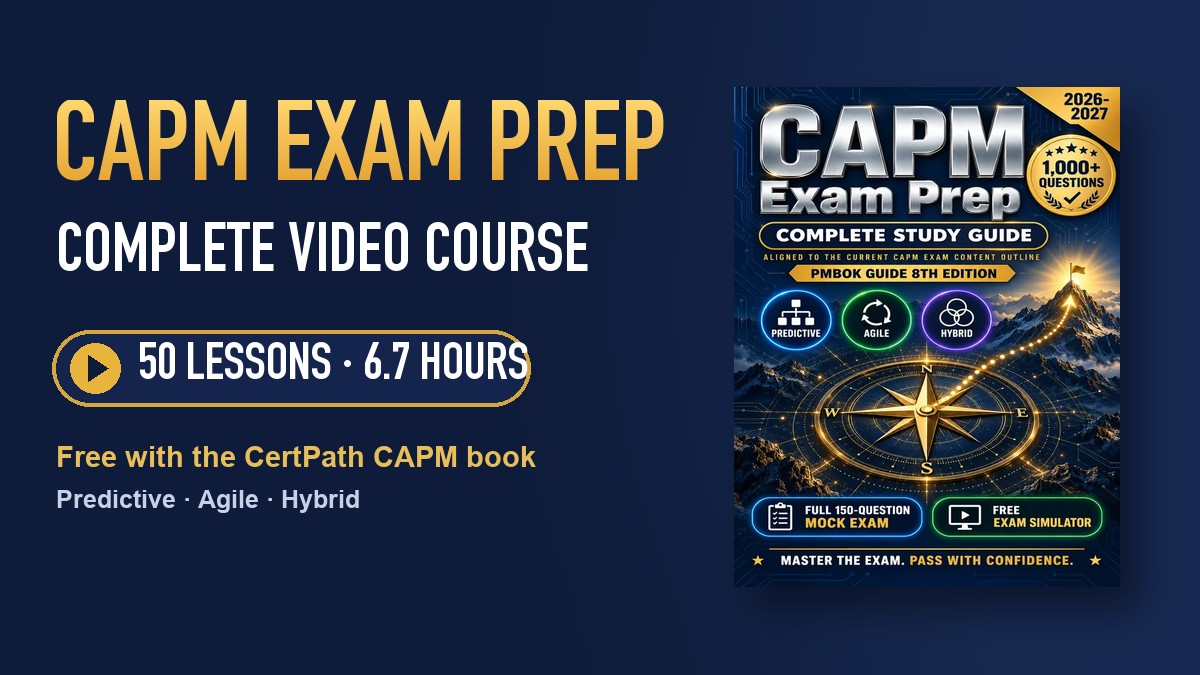
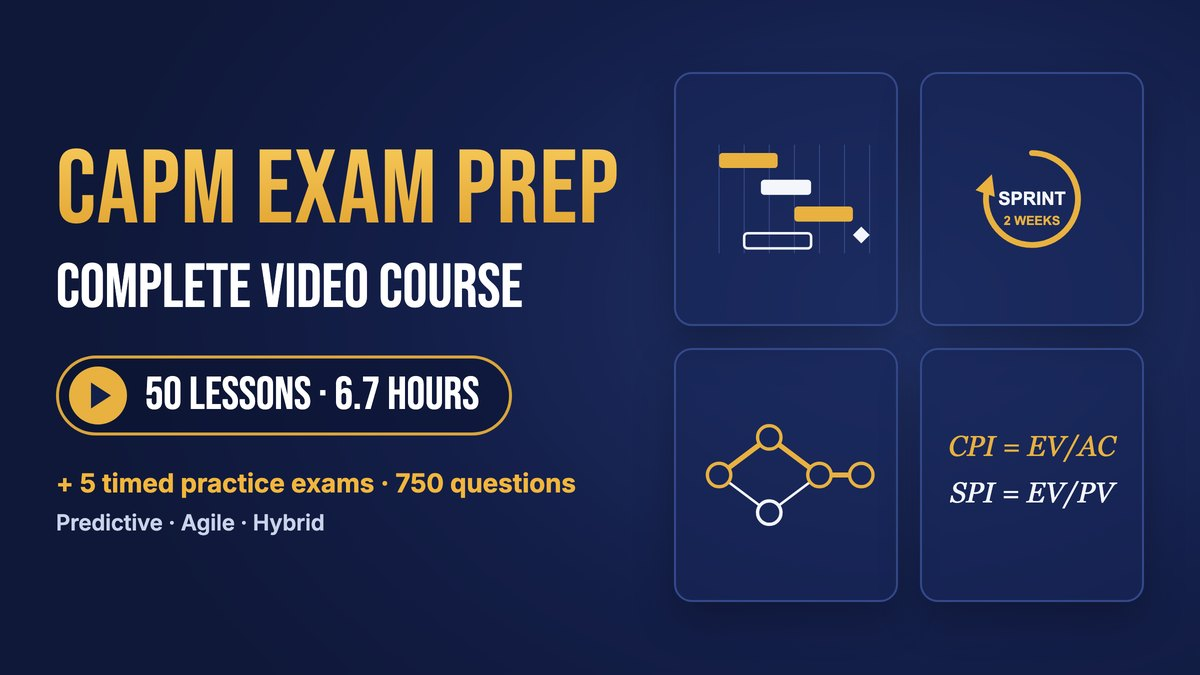
CAPM + Mechanical Aptitude Complete Prep packs ($19.99): course, pack codes, buy sections

diff --git a/capm.html b/capm.html
@@ -341,6 +341,33 @@ footer.ft{background:var(--navy-2);color:rgba(255,255,255,.72);padding:64px 0 40
   </div>
 </section>
 
+<!-- VIDEO COURSE PACK -->
+<link rel="stylesheet" href="/css/video-course.css?v=4">
+<section class="vc" id="video-course">
+ <div class="vc-in">
+  <div class="vc-head"><h2>The CAPM video course + practice exams — <em>$19.99</em>.</h2><p>All four CAPM domains taught step by step — predictive, agile and business analysis — plus 5 timed online practice exams to prove you are ready.</p></div>
+  <div class="vc-card" id="vc-capm" role="tabpanel">
+  <div>
+    <a class="vc-cover" href="https://payhip.com/b/M89UW" target="_blank" rel="noopener"><img src="/img/video-courses/CAPM.jpg" alt="CAPM Exam Prep — Complete Video Course" loading="lazy"><span class="pl">▶ 50 lessons + 5 practice exams</span></a>
+    <div class="vc-stats"><div><b>50</b><span>lessons</span></div><div><b>6.7 h</b><span>of video</span></div><div><b>5</b><span>practice exams</span></div></div>
+  </div>
+  <div>
+    <h3 class="vc-title">CAPM Exam Prep — Video Course + Practice Exams</h3>
+    <p class="vc-sub">Every domain of the current CAPM exam content outline, in plain English, with exam-style examples throughout.</p>
+    <ul class="vc-list"><li>5 timed online practice exams (750 questions), every answer explained</li><li>50 lessons covering fundamentals, predictive, agile and business analysis</li><li>One pack code unlocks the videos and the tests — no account needed</li></ul>
+    <div class="vc-buy">
+      <div class="vc-price"><b>$19.99</b><span>One-time payment</span></div>
+      <div class="vc-note">No subscription. Instant download with your pack code — stream on phone, tablet or computer.</div>
+      <a class="vc-btn" href="https://payhip.com/b/M89UW" target="_blank" rel="noopener">Get the pack — $19.99</a>
+      <div class="vc-alt"><a href="/learn/capm">Watch lesson 1 free →</a><span>Own the book? <a href="/study/capm">It's free with your code</a></span></div>
+      <div class="vc-trust"><span>🔒 Secure checkout by Payhip</span><span>💳 Card &amp; PayPal</span><span>🎓 CertPath Publishing</span></div>
+    </div>
+  </div>
+</div>
+<details class="vc-cur" data-for="vc-capm"><summary>See all 50 lessons</summary><ol><li><b>01</b>CAPM Certification, Eligibility and Education Requirements</li><li><b>02</b>Exam Structure, Question Formats and Blueprint</li><li><b>03</b>How to Study and Use This Course</li><li><b>04</b>Projects, Programs, Portfolios &amp; Operations</li><li><b>05</b>Life Cycles &amp; Development Approaches</li><li><b>06</b>Issues, Risks, Assumptions &amp; Constraints</li><li><b>07</b>Project Scope Fundamentals</li><li><b>08</b>PMI Code of Ethics &amp; Professional Conduct</li><li><b>09</b>Projects as Vehicles for Change</li><li><b>10</b>Planning — Cost, Quality, Risk, Schedule, Resources &amp; Communications</li><li><b>11</b>Project Management Plan vs. Product Management Plan</li><li><b>12</b>Milestones vs. Task Durations &amp; Activities</li><li><b>13</b>Resources - Number &amp; Type</li><li><b>14</b>The Risk Register &amp; the Stakeholder Register</li><li><b>15</b>Project Closure &amp; Transitions</li><li><b>16</b>Roles &amp; Responsibilities - PM, Sponsor &amp; Team</li><li><b>17</b>Leadership vs. Management; Emotional Intelligence</li><li><b>18</b>Following and Executing Planned Strategies</li><li><b>19</b>Project Initiation and Benefits Planning</li><li><b>20</b>Problem-Solving, Meetings, and SWOT</li><li><b>21</b>When Predictive Fits; Organizational Structures</li><li><b>22</b>Process Groups, Typical Activities, and Predictive Components</li><li><b>23</b>Scope — The WBS and Work Packages</li><li><b>24</b>Scheduling &amp; the Critical Path Method</li><li><b>25</b>Schedule Variance &amp; Cost Variance (EVM Basics)</li><li><b>26</b>Quality Management Plan</li><li><b>27</b>Integration Management &amp; Change Control</li><li><b>28</b>Documenting Predictive Controls &amp; Artifacts</li><li><b>29</b>When Adaptive Fits and the Agile Mindset</li><li><b>30</b>Iterative vs Incremental and Planning Iterations</li><li><b>31</b>From WBS to Backlog and Inputs for Scope</li><li><b>32</b>Adaptive vs Predictive Tracking</li><li><b>33</b>Adaptive Artifacts</li><li><b>34</b>Adaptive Framework Deep-Dive — Scrum</li><li><b>35</b>Kanban, XP &amp; SAFe (Awareness)</li><li><b>36</b>Task Management — Success Criteria &amp; Prioritization</li><li><b>37</b>What Business Analysis Is; Value Across the Life Cycle</li><li><b>38</b>Business Analysis Roles and Stakeholders</li><li><b>39</b>Stakeholder Communication - Channels, Reporting, and Presentations</li><li><b>40</b>Elicitation Techniques</li><li><b>41</b>Requirement Types, Documentation &amp; Acceptance Criteria</li><li><b>42</b>Modeling Requirements — User Stories &amp; Use Cases</li><li><b>43</b>Requirements Traceability Matrix &amp; Product Backlog</li><li><b>44</b>Prioritization — MoSCoW &amp; Other Methods</li><li><b>45</b>Product Roadmaps &amp; Releases</li><li><b>46</b>BA in Predictive vs Adaptive Environments</li><li><b>47</b>Validating Requirements &amp; Delivery Readiness</li><li><b>48</b>Worked Calculations- Critical Path and Earned Value</li><li><b>49</b>Final Revision Across the Four CAPM Domains</li><li><b>50</b>Practice Exam Debrief and Remediation</li></ol></details>
+ </div>
+</section>
+
 <!-- ELIGIBILITY -->
 <section class="section" id="requirements">
   <div class="wrap">
@@ -375,7 +402,7 @@ footer.ft{background:var(--navy-2);color:rgba(255,255,255,.72);padding:64px 0 40
     <span class="eyebrow">Questions</span>
     <h2 class="h2">CAPM exam FAQ</h2>
     <div class="faq" style="text-align:left">
-      <details open><summary>Is the free CAPM practice exam really free? <span class="pm">+</span></summary><p>Yes. Enter your email and you'll unlock a full-length, 150-question practice exam — timed, auto-scored, with explanations. No card, no trial. The other four exams come with the CertPath CAPM Exam Prep book.</p></details>
+      <details open><summary>Is the free CAPM practice exam really free? <span class="pm">+</span></summary><p>Yes. Enter your email and you'll unlock a full-length, 150-question practice exam — timed, auto-scored, with explanations. No card, no trial. The other four exams come with the CertPath CAPM Exam Prep book or the $19.99 CAPM Complete Prep pack (videos + all 5 exams).</p></details>
       <details><summary>How many questions is the real CAPM exam? <span class="pm">+</span></summary><p>150 questions in about 3 hours (180 minutes). CAPM is a knowledge-based exam — no eligibility hours of project experience required, just 23 hours of project management education.</p></details>
       <details><summary>Is this aligned to the current (2023) exam? <span class="pm">+</span></summary><p>Yes — everything maps 1:1 to the current CAPM Examination Content Outline: Project Management Fundamentals &amp; Core Concepts 36%, Predictive Plan-Based Methodologies 17%, Agile Frameworks 20%, and Business Analysis Frameworks 27%.</p></details>
       <details><summary>I bought the CertPath CAPM book — how do I get my tests? <span class="pm">+</span></summary><p>Use the access code printed on the last page in the "Already purchased?" box above — it unlocks all five practice exams free.</p></details>

diff --git a/mechanical-aptitude.html b/mechanical-aptitude.html
@@ -82,6 +82,7 @@
     </div>
   </section>
 
+
   <section class="lp-quiz-section" id="sample-quiz">
     <div class="lp-quiz-wrap">
       <div class="lp-section-head" style="margin-bottom: 2rem;">
@@ -99,6 +100,32 @@
       </div>
     </div>
   </section>
+
+<link rel="stylesheet" href="/css/video-course.css?v=4">
+<section class="vc" id="video-course">
+ <div class="vc-in">
+  <div class="vc-head"><h2>The mechanical aptitude video course + practice tests — <em>$19.99</em>.</h2><p>Every topic the BMCT, Wiesen and Ramsay tests cover, taught step by step, plus 3 timed online practice tests to prove you are ready.</p></div>
+  <div class="vc-card" id="vc-mech-apt" role="tabpanel">
+  <div>
+    <a class="vc-cover" href="https://payhip.com/b/XPpzo" target="_blank" rel="noopener"><img src="/img/video-courses/Mech_Apt.jpg" alt="Mechanical Aptitude — Complete Video Course" loading="lazy"><span class="pl">▶ 30 lessons + 3 practice tests</span></a>
+    <div class="vc-stats"><div><b>30</b><span>lessons</span></div><div><b>3.3 h</b><span>of video</span></div><div><b>3</b><span>practice tests</span></div></div>
+  </div>
+  <div>
+    <h3 class="vc-title">Mechanical Aptitude — Video Course + Practice Tests</h3>
+    <p class="vc-sub">Forces, levers, pulleys, gears, fluids, electricity, heat, tools and spatial reasoning — each explained with clear diagrams.</p>
+    <ul class="vc-list"><li>3 timed online practice tests (180 questions), every answer explained</li><li>30 lessons from motion and forces to spatial reasoning</li><li>One pack code unlocks the videos and the tests — no account needed</li></ul>
+    <div class="vc-buy">
+      <div class="vc-price"><b>$19.99</b><span>One-time payment</span></div>
+      <div class="vc-note">No subscription. Instant download with your pack code — stream on phone, tablet or computer.</div>
+      <a class="vc-btn" href="https://payhip.com/b/XPpzo" target="_blank" rel="noopener">Get the pack — $19.99</a>
+      <div class="vc-alt"><a href="/learn/mech-apt">Watch lesson 1 free →</a><span>Own the book? <a href="/study/mech-apt">It's free with your code</a></span></div>
+      <div class="vc-trust"><span>🔒 Secure checkout by Payhip</span><span>💳 Card &amp; PayPal</span><span>🎓 CertPath Publishing</span></div>
+    </div>
+  </div>
+</div>
+<details class="vc-cur" data-for="vc-mech-apt"><summary>See all 30 lessons</summary><ol><li><b>01</b>How Mechanical Aptitude Tests Work</li><li><b>02</b>Distance vs Displacement, Speed vs Velocity</li><li><b>03</b>Acceleration and Free Fall</li><li><b>04</b>Newton&#x27;s Three Laws of Motion</li><li><b>05</b>Friction</li><li><b>06</b>Work, Energy and Power</li><li><b>07</b>First-Class Levers and Lever Math</li><li><b>08</b>Second- and Third-Class Levers</li><li><b>09</b>Inclined Planes, Wedges and Screws</li><li><b>10</b>Fixed and Movable Pulleys</li><li><b>11</b>Block and Tackle and Wheel-and-Axle</li><li><b>12</b>Mechanical Advantage and Efficiency</li><li><b>13</b>Gear Direction and Idler Gears</li><li><b>14</b>Gear Ratio, Speed and Torque</li><li><b>15</b>Belts, Chains and Sprockets</li><li><b>16</b>Torque and Rotational Motion</li><li><b>17</b>Pressure and Pascal&#x27;s Principle</li><li><b>18</b>Hydraulic and Pneumatic Systems</li><li><b>19</b>Fluid Flow and Bernoulli&#x27;s Principle</li><li><b>20</b>Buoyancy and Archimedes&#x27; Principle</li><li><b>21</b>Voltage, Current, Resistance and Ohm&#x27;s Law</li><li><b>22</b>Series vs Parallel Circuits</li><li><b>23</b>Electrical Power, Grounding and AC vs DC</li><li><b>24</b>Heat, Temperature and Thermal Expansion</li><li><b>25</b>Conduction, Convection and Radiation</li><li><b>26</b>Common Hand Tools and Their Uses</li><li><b>27</b>Power Tools, Fasteners and Materials</li><li><b>28</b>Spatial Reasoning: Rotation and Folding</li><li><b>29</b>Pattern Recognition and Assembly Problems</li><li><b>30</b>Light, Sound, Centre of Gravity and Structures</li></ol></details>
+ </div>
+</section>
 
   <section class="lp-books" id="book">
     <div class="lp-books-inner">

diff --git a/js/exams.js b/js/exams.js
@@ -4,13 +4,13 @@
 // yt = a free YouTube course; sheet = the cheatsheets/meta.json bank.
 window.CP_EXAMS = [
   { key: 'pmp', short: 'PMP', name: 'Project Management Professional', field: 'Project management', page: '/pmp', books: ['pmp'], course: 'pmp', sheet: 'pmp', photo: '/img/photo/field-project.webp', pack: 'https://payhip.com/b/Atjx3' },
-  { key: 'capm', short: 'CAPM', name: 'Certified Associate in Project Management', field: 'Project management', page: '/capm', books: ['capm'], course: 'capm', sheet: 'capm', photo: '/img/photo/field-project.webp' },
+  { key: 'capm', short: 'CAPM', name: 'Certified Associate in Project Management', field: 'Project management', page: '/capm', books: ['capm'], course: 'capm', sheet: 'capm', photo: '/img/photo/field-project.webp', pack: 'https://payhip.com/b/M89UW' },
   { key: 'pmi-acp', short: 'PMI-ACP', name: 'PMI Agile Certified Practitioner', field: 'Project management', page: '/books/pmi-acp', books: ['pmi-acp'], sheet: 'pmi-acp', photo: '/img/photo/field-project.webp' },
   { key: 'cap', short: 'CAP', name: 'Certified Administrative Professional', field: 'Business', page: '/books/cap', books: ['cap'], sheet: 'cap', photo: '/img/photo/field-project.webp' },
   { key: 'cast', short: 'CAST', name: 'Construction and Skilled Trades test', field: 'Trades', page: '/cast', books: ['cast'], yt: 'https://www.youtube.com/playlist?list=PLJb4GZ4sHPDA', ytLessons: 10, photo: '/img/photo/field-trades.webp' },
   { key: 'journeyman', short: 'Journeyman', name: 'Journeyman Electrician (2026 NEC)', field: 'Trades', page: '/journeyman-electrician', books: ['journeyman-elec'], photo: '/img/photo/field-trades.webp' },
   { key: 'poss', short: 'POSS', name: 'Plant Operator Selection System', field: 'Trades', page: '/poss', books: ['poss'], photo: '/img/photo/field-trades.webp' },
-  { key: 'mech-apt', short: 'Mech Aptitude', name: 'Mechanical Aptitude (BMCT, Wiesen, Ramsay)', field: 'Trades', page: '/mechanical-aptitude', books: ['mech-apt'], yt: 'https://www.youtube.com/playlist?list=PLFbmqdwVOD9Y', ytLessons: 30, sheet: 'mech-apt', photo: '/img/photo/field-trades.webp' },
+  { key: 'mech-apt', short: 'Mech Aptitude', name: 'Mechanical Aptitude (BMCT, Wiesen, Ramsay)', field: 'Trades', page: '/mechanical-aptitude', books: ['mech-apt'], course: 'mech-apt', yt: 'https://www.youtube.com/playlist?list=PLFbmqdwVOD9Y', ytLessons: 30, sheet: 'mech-apt', photo: '/img/photo/field-trades.webp', pack: 'https://payhip.com/b/XPpzo' },
   { key: 'csp', short: 'CSP', name: 'Certified Safety Professional', field: 'Safety', page: '/csp', books: ['csp'], photo: '/img/photo/field-trades.webp' },
   { key: 'chst', short: 'CHST', name: 'Construction Health & Safety Technician', field: 'Safety', page: '/chst', books: ['chst'], photo: '/img/photo/field-trades.webp' },
   { key: 'ccrn', short: 'CCRN', name: 'Adult Critical Care Registered Nurse', field: 'Nursing', page: '/ccrn', books: ['ccrn'], sheet: 'ccrn', photo: '/img/photo/field-healthcare.webp' },

diff --git a/learn.html b/learn.html
@@ -182,7 +182,7 @@ video{width:100%;aspect-ratio:16/9;background:#000;border-radius:12px;display:bl
     <a class="btn" id="buy" href="#">Get videos + practice tests — $19.99</a>
     <div class="or">Already bought it?</div>
     <form class="form" id="form">
-      <input type="email" id="email" placeholder="Email you bought with" autocomplete="email" required>
+      <input type="email" id="email" placeholder="Email you bought with" autocomplete="email" hidden>
       <input type="text" id="key" placeholder="Pack code or book code" autocomplete="off" required>
       <button class="btn" type="submit" id="go">Unlock</button>
     </form>
@@ -227,10 +227,9 @@ video{width:100%;aspect-ratio:16/9;background:#000;border-radius:12px;display:bl
 
 <script>
 (function () {
-  var BUY = { 'pmp': 'https://payhip.com/b/Atjx3', 'sat-math': 'https://payhip.com/b/KbAzN', 'tabe-a': 'https://payhip.com/b/pw4Rs', 'tabe-d': 'https://payhip.com/b/Mavlg', 'tabe-m': 'https://payhip.com/b/tRLN4', 'tabe-e': 'https://payhip.com/b/vxU07' };
-  // CAPM is not sold separately: it comes with the CertPath CAPM book, unlocked by the book's code.
-  var BOOK_ONLY = { 'capm': '/capm' };
-  var COVER = { 'pmp': 'PMP', 'sat-math': 'SAT_Math', 'tabe-a': 'TABE_A', 'tabe-d': 'TABE_D', 'tabe-m': 'TABE_M', 'tabe-e': 'TABE_E', 'capm': 'CAPM' };
+  var BUY = { 'pmp': 'https://payhip.com/b/Atjx3', 'sat-math': 'https://payhip.com/b/KbAzN', 'tabe-a': 'https://payhip.com/b/pw4Rs', 'tabe-d': 'https://payhip.com/b/Mavlg', 'tabe-m': 'https://payhip.com/b/tRLN4', 'tabe-e': 'https://payhip.com/b/vxU07', 'capm': 'https://payhip.com/b/M89UW', 'mech-apt': 'https://payhip.com/b/XPpzo' };
+  var BOOK_ONLY = {};
+  var COVER = { 'pmp': 'PMP', 'sat-math': 'SAT_Math', 'tabe-a': 'TABE_A', 'tabe-d': 'TABE_D', 'tabe-m': 'TABE_M', 'tabe-e': 'TABE_E', 'capm': 'CAPM', 'mech-apt': 'Mech_Apt' };
   var slug = (location.pathname.match(/^\/learn\/([a-z0-9-]+)/) || [])[1] || new URLSearchParams(location.search).get('course') || '';
   var $ = function (id) { return document.getElementById(id); };
   var store = {

diff --git a/css/video-course.css b/css/video-course.css
@@ -3,6 +3,8 @@
   background:radial-gradient(900px 480px at 85% -10%,#24375c 0%,var(--vn) 45%,var(--vn2) 100%);
   color:#fff;padding:88px 20px;font-family:Inter,system-ui,sans-serif;position:relative;overflow:hidden}
 .vc *{box-sizing:border-box}
+/* landing pages alternate section backgrounds (premium-bridge.css); the pack block stays navy */
+body.cp > .lp-hero ~ section.vc{background:radial-gradient(900px 480px at 85% -10%,#24375c 0%,var(--vn) 45%,var(--vn2) 100%)}
 .vc::before{content:"";position:absolute;inset:0;background-image:radial-gradient(rgba(255,255,255,.05) 1px,transparent 1px);background-size:22px 22px;pointer-events:none}
 .vc-in{max-width:1160px;margin:0 auto;position:relative}
 .vc-head{text-align:center;max-width:760px;margin:0 auto 44px}

diff --git a/functions/_vc.js b/functions/_vc.js
@@ -6,7 +6,7 @@
 //   VC_SESSION_SECRET  signs the per-course access cookie
 //   SUPER_ACCESS_CODE  optional owner code that unlocks every course
 
-export const COURSES = ['pmp', 'sat-math', 'tabe-a', 'tabe-d', 'tabe-m', 'tabe-e', 'capm'];
+export const COURSES = ['pmp', 'sat-math', 'tabe-a', 'tabe-d', 'tabe-m', 'tabe-e', 'capm', 'mech-apt'];
 export const COOKIE_DAYS = 30;
 
 export function json(body, status = 200, headers = {}) {
@@ -76,6 +76,7 @@ export const BOOKS_FOR_COURSE = {
   'tabe-m': ['tabe-m'],
   'tabe-e': ['tabe-e'],
   'capm': ['capm'],
+  'mech-apt': ['mech-apt'],
 };
 
 const sha256Hex = async (s) => [...new Uint8Array(await crypto.subtle.digest('SHA-256', enc.encode(s)))]

diff --git a/pmp.html b/pmp.html
@@ -354,7 +354,7 @@ footer.ft{border-top:1px solid rgba(255,255,255,.08)}
 
 
 <!-- VIDEO COURSE + PRACTICE TESTS PACK ($19.99, Payhip key -> /learn/<slug> + online tests) -->
-<link rel="stylesheet" href="/css/video-course.css?v=3">
+<link rel="stylesheet" href="/css/video-course.css?v=4">
 <section class="vc" id="video-course">
  <div class="vc-in">
   <div class="vc-head"><h2>The PMP video course + practice exams — <em>$19.99</em>.</h2><p>Every task on the 2026 exam, taught in depth with scenario labs, formulas and full question walkthroughs, plus 4 timed online practice exams to prove you are ready.</p></div>

diff --git a/tabe.html b/tabe.html
@@ -77,7 +77,7 @@
   </div>
 </section>
 <!-- VIDEO COURSE + PRACTICE TESTS PACK ($19.99, Payhip key -> /learn/<slug> + online tests) -->
-<link rel="stylesheet" href="/css/video-course.css?v=3">
+<link rel="stylesheet" href="/css/video-course.css?v=4">
 <section class="vc" id="video-course">
  <div class="vc-in">
   <div class="vc-head"><h2>See every TABE math skill <em>taught step by step.</em></h2><p>Pick your level. Each course follows the TABE 11 &amp; 12 blueprint, lesson by lesson, so you know exactly what to study.</p></div>

diff --git a/sat.html b/sat.html
@@ -77,7 +77,7 @@
   </div>
 </section>
 <!-- VIDEO COURSE + PRACTICE TESTS PACK ($19.99, Payhip key -> /learn/<slug> + online tests) -->
-<link rel="stylesheet" href="/css/video-course.css?v=3">
+<link rel="stylesheet" href="/css/video-course.css?v=4">
 <section class="vc" id="video-course">
  <div class="vc-in">
   <div class="vc-head"><h2>Learn it on video. <em>Ace it on test day.</em></h2><p>Watch a teacher solve every type of Digital SAT Math question — then practice it in the book.</p></div>
